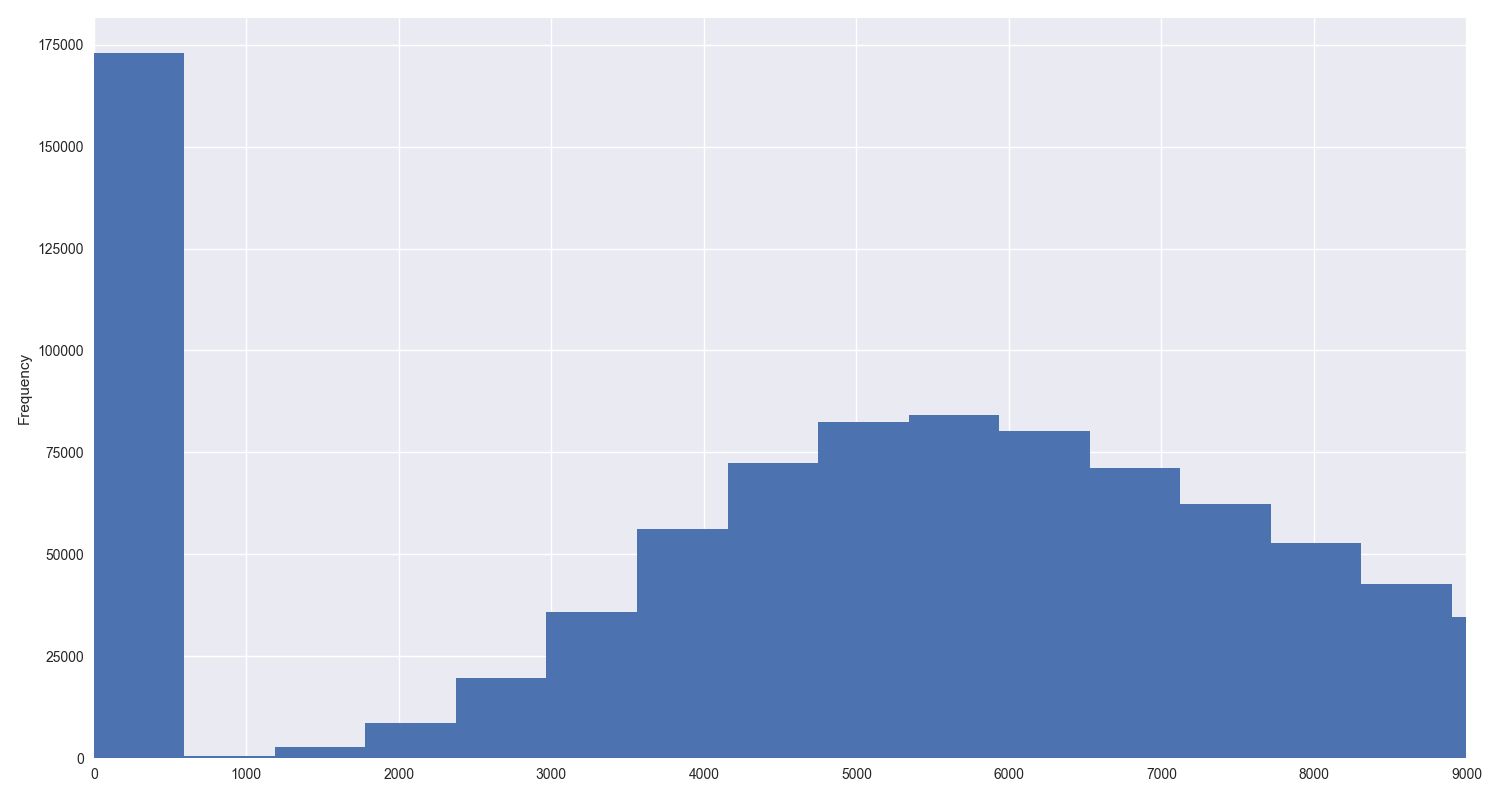
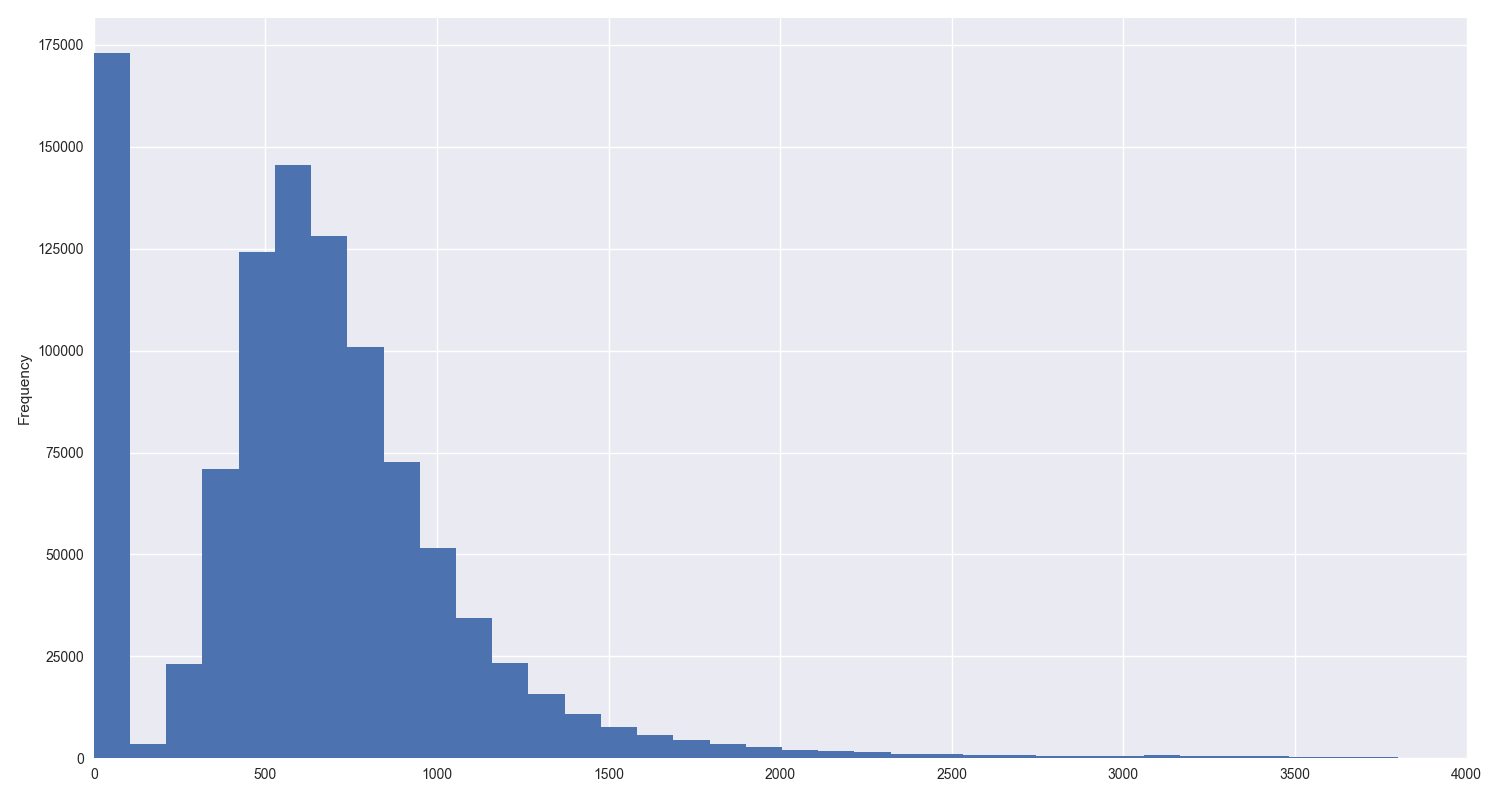
Updated generateplots.py

diff --git a/generateplots.py b/generateplots.py
@@ -45,6 +45,16 @@ training_df["StateHoliday"].loc[training_df["StateHoliday"] == 0] = "0"
 training_df["StateHolidayBinary"] = training_df["StateHoliday"].map({0: 0, "0": 0, "a": 1, "b": 1, "c": 1})
 
 ############################################
+# training_df_open                         #
+############################################
+
+# Create DataFrame for only open days
+training_df_open = training_df[training_df["Open"] != 0]
+
+# Drop "Open" column
+training_df_open.drop(["Open"], axis=1, inplace=True)
+
+############################################
 # store_df                                 #
 ############################################
 
@@ -167,6 +177,16 @@ fig.clf()
 plt.close(fig)
 print("Plotted Avg. Sales & Customers (by State Holiday Binary)")
 
+Generate plots for Avg. Sales & Customers(by State Holiday Binary for Open Stores)
+fig, (axis1, axis2) = plt.subplots(1, 2, figsize=(15, 8))
+sns.barplot(x="StateHolidayBinary", y="Sales", data=training_df_open, ax=axis1)
+sns.barplot(x="StateHolidayBinary", y="Customers", data=training_df_open, ax=axis2)
+fig.tight_layout()
+fig.savefig("plots/Avg. Sales & Customers (by State Holiday Binary for Open Stores).png", dpi=fig.dpi)
+fig.clf()
+plt.close(fig)
+print("Plotted Avg. Sales & Customers (by State Holiday Binary for Open Stores)")
+
 # Generate plots for Avg. Sales & Customers (by State Holiday)
 fig, (axis1, axis2) = plt.subplots(1, 2, figsize=(15, 8))
 sns.barplot(x="StateHoliday", y="Sales", data=training_df, ax=axis1)
@@ -177,6 +197,17 @@ fig.savefig("plots/Avg. Sales & Customers (by State Holiday).png", dpi=fig.dpi)
 fig.clf()
 plt.close(fig)
 print("Plotted Avg. Sales & Customers (by State Holiday)")
+
+Generate plots for Avg. Sales & Customers(by State Holiday for Open Stores)
+fig, (axis1, axis2) = plt.subplots(1, 2, figsize=(15, 8))
+sns.barplot(x="StateHoliday", y="Sales", data=training_df_open, ax=axis1)
+mask = (training_df_open["StateHoliday"] != "0") & (training_df_open["Sales"] > 0)
+sns.barplot(x="StateHoliday", y="Sales", data=training_df_open[mask], ax=axis2)
+fig.tight_layout()
+fig.savefig("plots/Avg. Sales & Customers (by State Holiday for Open Stores).png", dpi=fig.dpi)
+fig.clf()
+plt.close(fig)
+print("Plotted Avg. Sales & Customers (by State Holiday for Open Stores)")
 
 
 ############################################
@@ -202,6 +233,16 @@ fig.clf()
 plt.close(fig)
 print("Plotted Avg. Sales & Customers (by School Holiday)")
 
+Generate plots for Avg. Sales & Customers(by School Holiday for Open Stores)
+fig, (axis1, axis2) = plt.subplots(1, 2, figsize=(15, 8))
+sns.barplot(x="SchoolHoliday", y="Sales", data=training_df_open, ax=axis1)
+sns.barplot(x="SchoolHoliday", y="Customers", data=training_df_open, ax=axis2)
+fig.tight_layout()
+fig.savefig("plots/Avg. Sales & Customers (by School Holiday for Open Stores).png", dpi=fig.dpi)
+fig.clf()
+plt.close(fig)
+print("Plotted Avg. Sales & Customers (by School Holiday for Open Stores)")
+
 
 ############################################
 # "Sales" Data Field                       #
@@ -216,6 +257,15 @@ fig.clf()
 plt.close(fig)
 print("Plotted Frequency of Sales Values")
 
+Generate plot for Frequency of Sales Values(for Open Stores)
+fig, (axis1) = plt.subplots(1, 1, figsize=(15, 8))
+training_df_open["Sales"].plot(kind="hist", bins=70, xlim=(0, 20000), ax=axis1)
+fig.tight_layout()
+fig.savefig("plots/Frequency of Sales Values (for Open Stores).png", dpi=fig.dpi)
+fig.clf()
+plt.close(fig)
+print("Plotted Frequency of Sales Values (for Open Stores)")
+
 
 ############################################
 # "Customers" Data Field                   #
@@ -223,12 +273,21 @@ print("Plotted Frequency of Sales Values")
 
 # Generate plot for Frequency of Customers Values
 fig, (axis1) = plt.subplots(1, 1, figsize=(15, 8))
-training_df["Sales"].plot(kind="hist", bins=70, xlim=(0, 9000), ax=axis1)
+training_df["Customers"].plot(kind="hist", bins=70, xlim=(0, 4000), ax=axis1)
 fig.tight_layout()
 fig.savefig("plots/Frequency of Customers Values.png", dpi=fig.dpi)
 fig.clf()
 plt.close(fig)
 print("Plotted Frequency of Customers Values")
+
+# Generate plot for Frequency of Customers Values (for Open Stores)
+fig, (axis1) = plt.subplots(1, 1, figsize=(15, 8))
+training_df_open["Customers"].plot(kind="hist", bins=70, xlim=(0, 4000), ax=axis1)
+fig.tight_layout()
+fig.savefig("plots/Frequency of Customers Values (for Open Stores).png", dpi=fig.dpi)
+fig.clf()
+plt.close(fig)
+print("Plotted Frequency of Customers Values (for Open Stores)")
 
 
 ############################################
